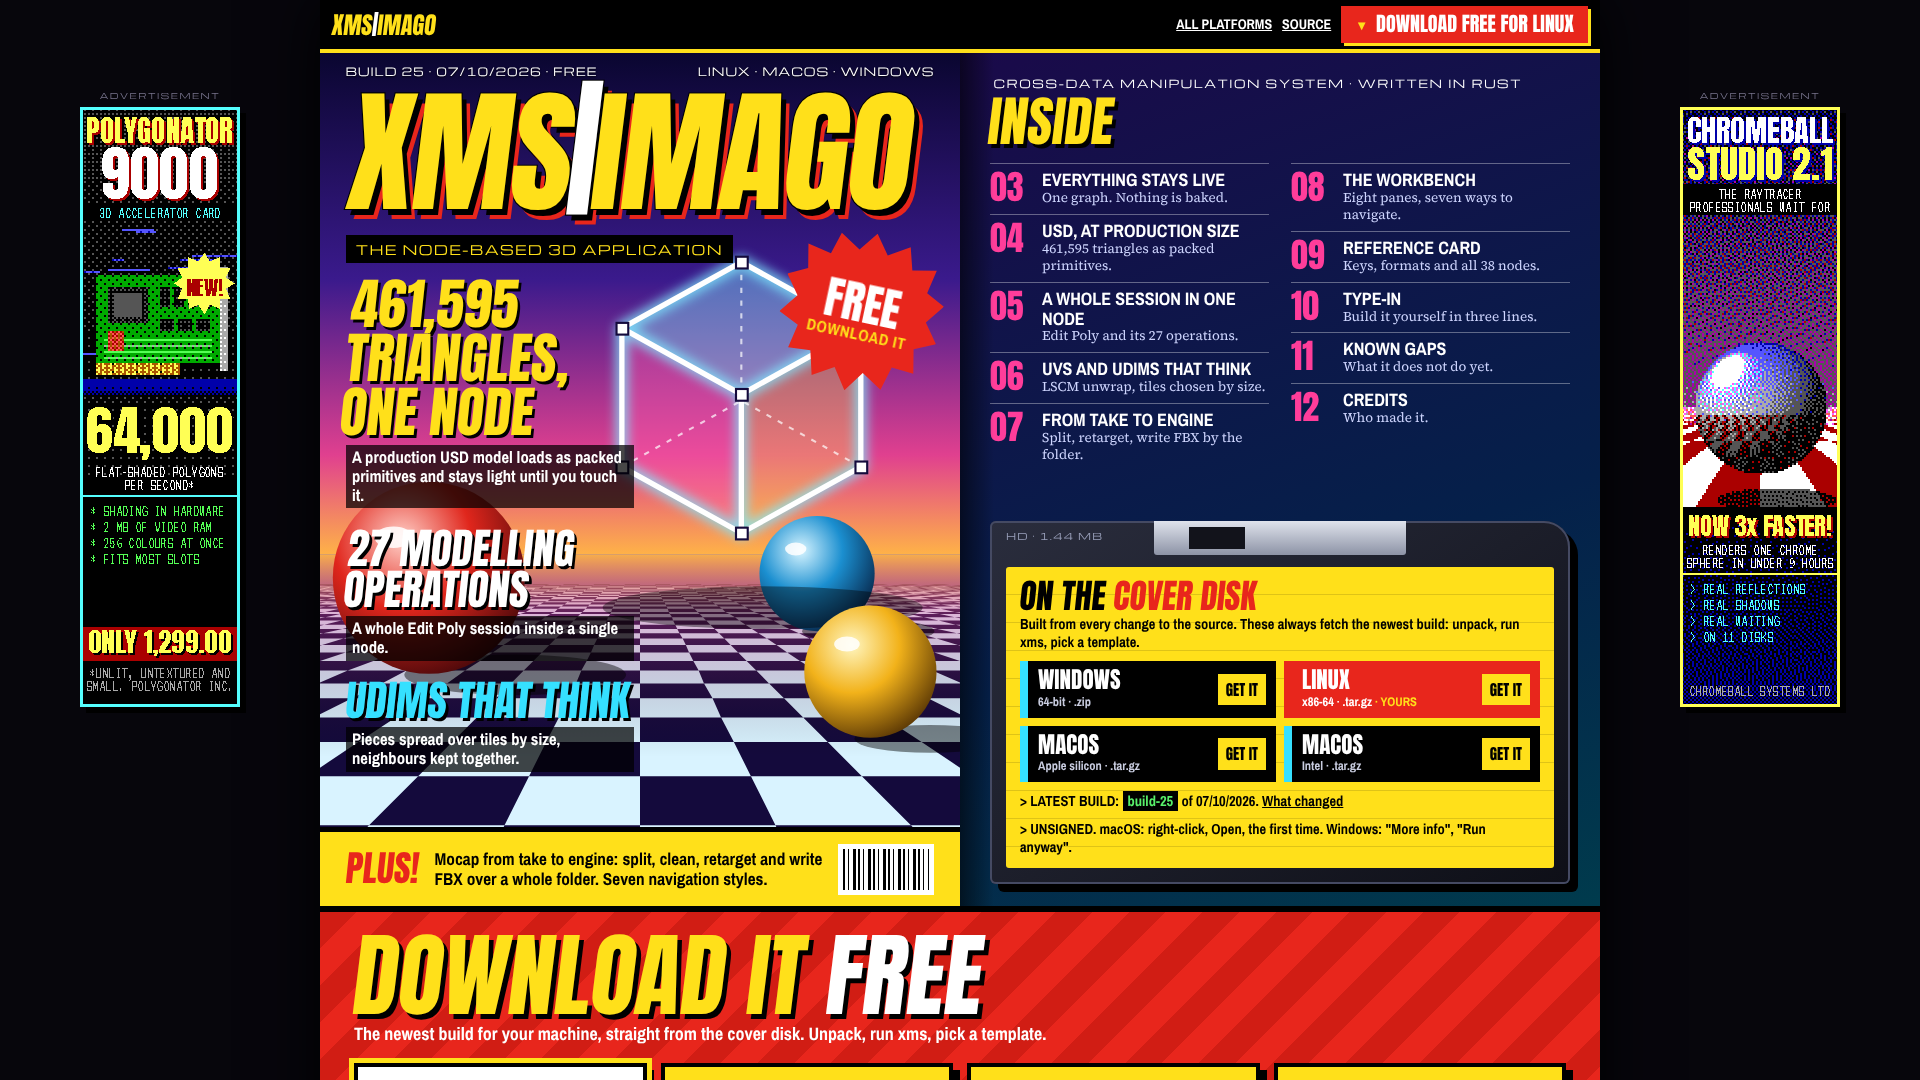
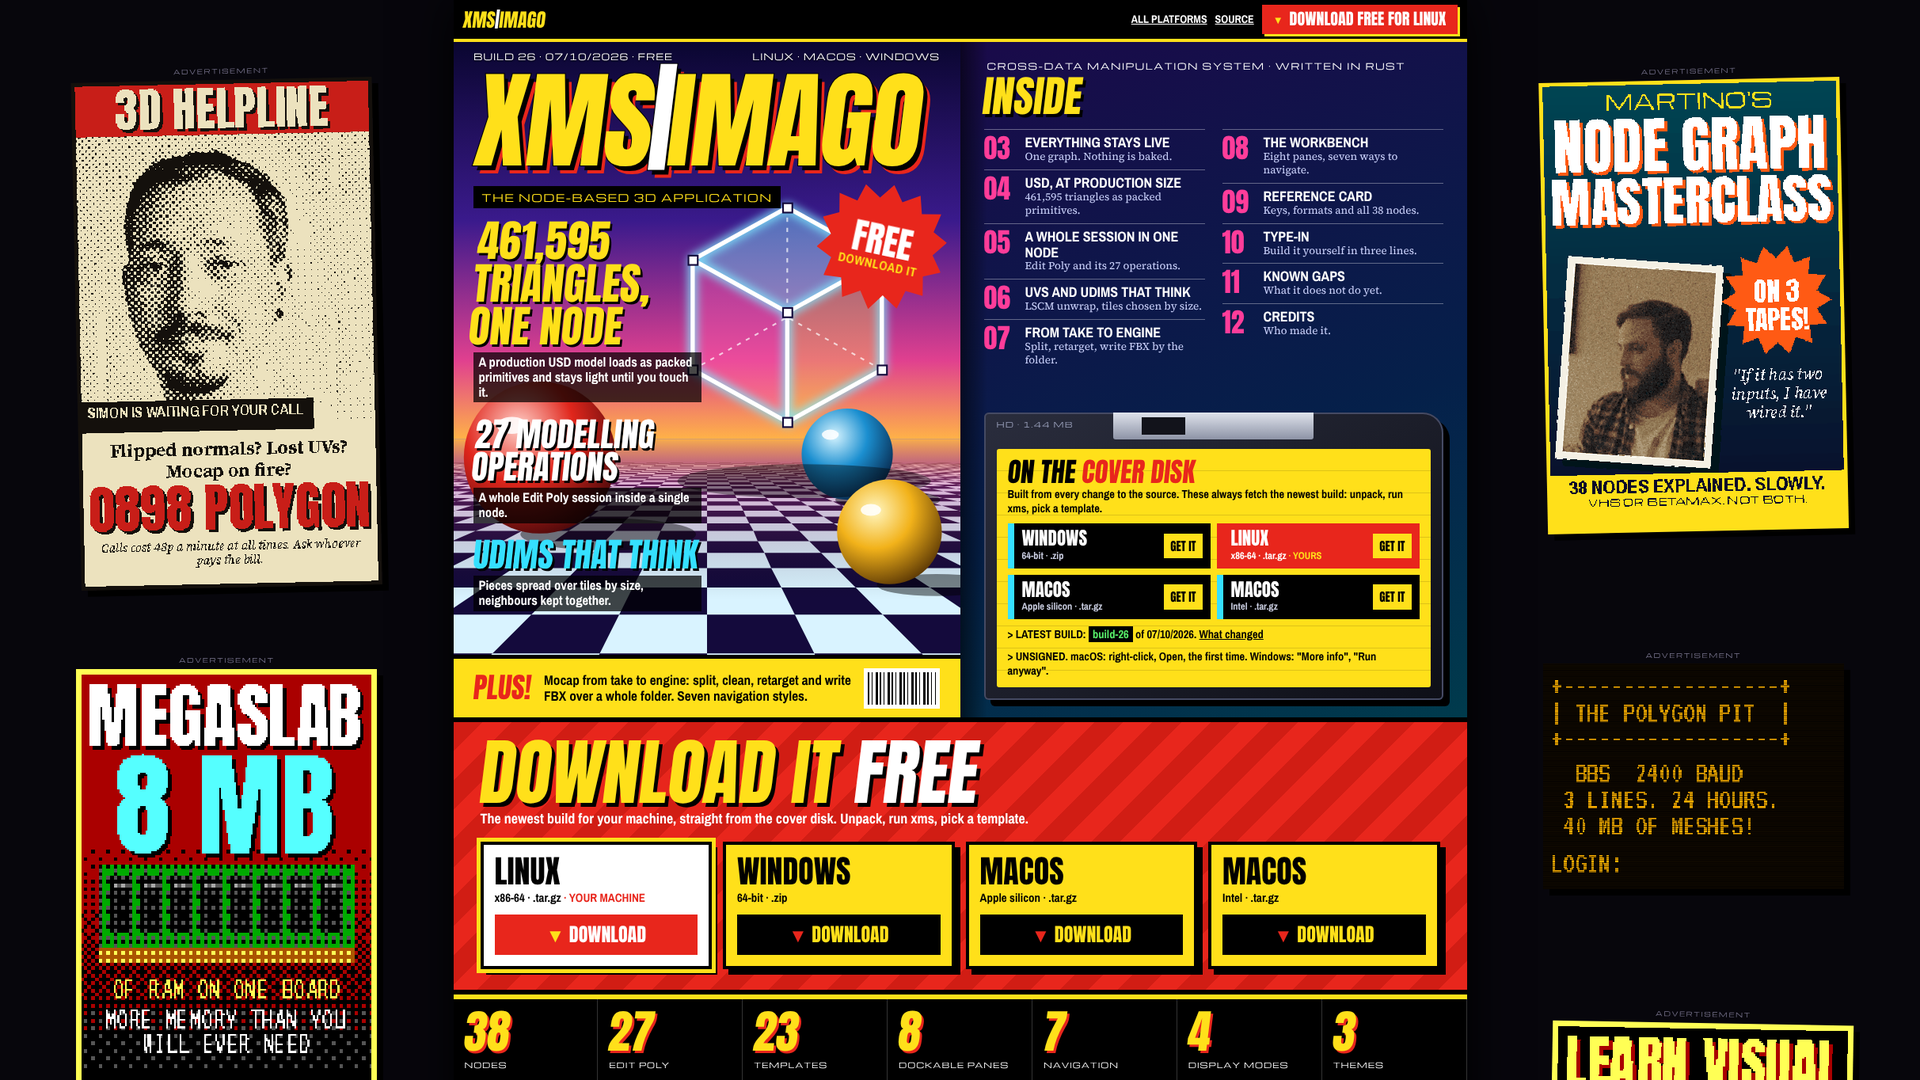
Website: bigger, more varied adverts

diff --git a/site/index.html b/site/index.html
@@ -136,17 +136,21 @@
 
   /* ── Parody adverts down the margins: pictures only, nothing to click ── */
   .desk { display: grid; grid-template-columns: minmax(0, 1fr) minmax(0, 1280px) minmax(0, 1fr); }
-  .rail { display: none; flex-direction: column; justify-content: space-between; align-items: center; gap: 60px; padding: 90px 0 60px; }
-  @media (min-width: 1680px) { .rail { display: flex; } }
-  .ad { pointer-events: none; user-select: none; width: 160px; }
-  .ad img { width: 160px; height: auto; image-rendering: pixelated; box-shadow: 6px 6px 0 #000; }
+  .desk > .mag { grid-column: 2; grid-row: 1; width: 100%; }
+  .desk > .rail:first-child { grid-column: 1; grid-row: 1; } .desk > .rail:last-child { grid-column: 3; grid-row: 1; }
+  /* The adverts grow with the margin. The rail never makes the page taller: what does not fit is cut off. */
+  .rail { display: none; position: relative; --adw: clamp(140px, calc((100vw - 1280px) / 2 - 56px), 380px); }
+  .rail .in { position: absolute; inset: 84px 0 40px; overflow: hidden; display: flex; flex-direction: column; justify-content: space-between; align-items: center; gap: 44px; }
+  @media (min-width: 1640px) { .rail { display: block; } }
+  .ad { pointer-events: none; user-select: none; width: var(--adw, 160px); flex: none; }
+  .ad img { width: 100%; height: auto; image-rendering: pixelated; box-shadow: 8px 8px 0 #000; }
   .ad figcaption { font-family: var(--tech); font-size: 8px; letter-spacing: .2em; text-transform: uppercase; color: #77738c; text-align: center; margin-bottom: 5px; }
-  .desk > .mag { grid-column: 2; width: 100%; } .desk > .rail:first-child { grid-column: 1; grid-row: 1; } .desk > .rail:last-child { grid-column: 3; grid-row: 1; }
-  /* Narrower windows have no margins: the small adverts go on a page of their own. */
+  .rail .ad:nth-child(3n+1) { transform: rotate(-1.2deg); } .rail .ad:nth-child(3n) { transform: rotate(1deg); }
+  /* Narrower windows have no margins: the adverts go on a page of their own. */
   .classified { background: #15151c; padding: 26px 16px 30px; border-top: 6px solid #000; }
   .classified h2 { font-family: var(--tech); font-weight: 400; font-size: 11px; letter-spacing: .2em; text-transform: uppercase; text-align: center; color: #9a96b0; margin: 0 0 18px; }
-  .classified .row { display: flex; flex-wrap: wrap; justify-content: center; gap: 22px; }
-  @media (min-width: 1680px) { .classified { display: none; } }
+  .classified .row { display: flex; flex-wrap: wrap; justify-content: center; align-items: flex-start; gap: 22px; --adw: min(280px, calc(50vw - 30px)); }
+  @media (min-width: 1640px) { .classified { display: none; } }
 
   /* ── The numbers strip ── */
   .stats { display: grid; grid-template-columns: repeat(auto-fit, minmax(130px, 1fr)); background: #000; border-top: 6px solid var(--yellow); border-bottom: 6px solid var(--yellow); }
@@ -245,20 +249,20 @@
 </head>
 <body>
 <div class="desk">
-  <aside class="rail" aria-label="Parody adverts">
-    <figure class="ad"><figcaption>Advertisement</figcaption><img src="ads/polygonator.gif" width="160" height="600" alt="Parody advert: Polygonator 9000 3D accelerator card" draggable="false"></figure>
-    <figure class="ad"><figcaption>Advertisement</figcaption><img src="ads/flyinglogo.gif" width="160" height="600" alt="Parody advert: The Flying Logo Academy, with a badly scanned photograph of a graduate" draggable="false"></figure>
+  <aside class="rail" aria-label="Parody adverts"><div class="in">
+    <figure class="ad"><figcaption>Advertisement</figcaption><img src="ads/helpline.gif" width="320" height="540" alt="Parody advert: 3D Helpline, with Simon waiting for your call" draggable="false"></figure>
     <figure class="ad"><figcaption>Advertisement</figcaption><img src="ads/megaslab.gif" width="160" height="240" alt="Parody advert: Megaslab 8 MB memory board" draggable="false"></figure>
-    <figure class="ad"><figcaption>Advertisement</figcaption><img src="ads/clunkmaster.gif" width="160" height="240" alt="Parody advert: Clunkmaster disk drive, with a bad photograph of it" draggable="false"></figure>
-    <figure class="ad"><figcaption>Advertisement</figcaption><img src="ads/marbles.gif" width="160" height="240" alt="Parody advert: Marbles and Chromes texture disks" draggable="false"></figure>
-    <figure class="ad"><figcaption>Advertisement</figcaption><img src="ads/renderfridge.gif" width="160" height="600" alt="Parody advert: Renderfridge render farm" draggable="false"></figure>
-    <figure class="ad"><figcaption>Advertisement</figcaption><img src="ads/megatube.gif" width="160" height="240" alt="Parody advert: Megatube 21 monitor, photographed with the flash on" draggable="false"></figure>
-    <figure class="ad"><figcaption>Advertisement</figcaption><img src="ads/diskbrick.gif" width="160" height="240" alt="Parody advert: Diskbrick 44 cartridge drive" draggable="false"></figure>
-    <figure class="ad"><figcaption>Advertisement</figcaption><img src="ads/scribblepad.gif" width="160" height="240" alt="Parody advert: Scribblepad 1212 tablet" draggable="false"></figure>
+    <figure class="ad"><figcaption>Advertisement</figcaption><img src="ads/polygonator.gif" width="160" height="600" alt="Parody advert: Polygonator 9000 3D accelerator card" draggable="false"></figure>
+    <figure class="ad"><figcaption>Advertisement</figcaption><img src="ads/polycon.gif" width="320" height="320" alt="Parody advert: Polycon '93, with exhibitor badges for Martino and Simon" draggable="false"></figure>
+    <figure class="ad"><figcaption>Advertisement</figcaption><img src="ads/clunkmaster.gif" width="160" height="240" alt="Parody advert: Clunkmaster disk drive" draggable="false"></figure>
     <figure class="ad"><figcaption>Advertisement</figcaption><img src="ads/synthia.gif" width="160" height="600" alt="Parody advert: Synthia, a digital actress of 312 polygons" draggable="false"></figure>
-    <figure class="ad"><figcaption>Advertisement</figcaption><img src="ads/chromeball.gif" width="160" height="600" alt="Parody advert: Chromeball Studio 2.1 raytracer" draggable="false"></figure>
-    <figure class="ad"><figcaption>Advertisement</figcaption><img src="ads/morphomatic.gif" width="160" height="240" alt="Parody advert: Morph-o-matic" draggable="false"></figure>
-  </aside>
+    <figure class="ad"><figcaption>Advertisement</figcaption><img src="ads/teapots.gif" width="320" height="320" alt="Parody advert: The Teapot Pack" draggable="false"></figure>
+    <figure class="ad"><figcaption>Advertisement</figcaption><img src="ads/diskbrick.gif" width="160" height="240" alt="Parody advert: Diskbrick 44 cartridge drive" draggable="false"></figure>
+    <figure class="ad"><figcaption>Advertisement</figcaption><img src="ads/masterclass.gif" width="320" height="480" alt="Parody advert: Martino's Node Graph Masterclass on three tapes" draggable="false"></figure>
+    <figure class="ad"><figcaption>Advertisement</figcaption><img src="ads/polygonpit.gif" width="320" height="240" alt="Parody advert: The Polygon Pit bulletin board" draggable="false"></figure>
+    <figure class="ad"><figcaption>Advertisement</figcaption><img src="ads/renderfridge.gif" width="160" height="600" alt="Parody advert: Renderfridge render farm" draggable="false"></figure>
+    <figure class="ad"><figcaption>Advertisement</figcaption><img src="ads/marbles.gif" width="160" height="240" alt="Parody advert: Marbles and Chromes texture disks" draggable="false"></figure>
+  </div></aside>
 <div class="mag">
 
   <nav class="bar" aria-label="Download">
@@ -620,10 +624,15 @@
   <section class="classified" aria-label="Parody adverts">
     <h2>Advertisements</h2>
     <div class="row">
+    <figure class="ad"><figcaption>Advertisement</figcaption><img src="ads/helpline.gif" width="320" height="540" alt="Parody advert: 3D Helpline, with Simon waiting for your call" draggable="false"></figure>
+    <figure class="ad"><figcaption>Advertisement</figcaption><img src="ads/masterclass.gif" width="320" height="480" alt="Parody advert: Martino's Node Graph Masterclass on three tapes" draggable="false"></figure>
+    <figure class="ad"><figcaption>Advertisement</figcaption><img src="ads/polycon.gif" width="320" height="320" alt="Parody advert: Polycon '93, with exhibitor badges for Martino and Simon" draggable="false"></figure>
+    <figure class="ad"><figcaption>Advertisement</figcaption><img src="ads/teapots.gif" width="320" height="320" alt="Parody advert: The Teapot Pack" draggable="false"></figure>
     <figure class="ad"><figcaption>Advertisement</figcaption><img src="ads/megaslab.gif" width="160" height="240" alt="Parody advert: Megaslab 8 MB memory board" draggable="false"></figure>
-    <figure class="ad"><figcaption>Advertisement</figcaption><img src="ads/clunkmaster.gif" width="160" height="240" alt="Parody advert: Clunkmaster disk drive, with a bad photograph of it" draggable="false"></figure>
-    <figure class="ad"><figcaption>Advertisement</figcaption><img src="ads/megatube.gif" width="160" height="240" alt="Parody advert: Megatube 21 monitor, photographed with the flash on" draggable="false"></figure>
     <figure class="ad"><figcaption>Advertisement</figcaption><img src="ads/morphomatic.gif" width="160" height="240" alt="Parody advert: Morph-o-matic" draggable="false"></figure>
+    <figure class="ad"><figcaption>Advertisement</figcaption><img src="ads/clunkmaster.gif" width="160" height="240" alt="Parody advert: Clunkmaster disk drive" draggable="false"></figure>
+    <figure class="ad"><figcaption>Advertisement</figcaption><img src="ads/megatube.gif" width="160" height="240" alt="Parody advert: Megatube 21 monitor" draggable="false"></figure>
+    <figure class="ad"><figcaption>Advertisement</figcaption><img src="ads/polygonpit.gif" width="320" height="240" alt="Parody advert: The Polygon Pit bulletin board" draggable="false"></figure>
     <figure class="ad"><figcaption>Advertisement</figcaption><img src="ads/scribblepad.gif" width="160" height="240" alt="Parody advert: Scribblepad 1212 tablet" draggable="false"></figure>
     <figure class="ad"><figcaption>Advertisement</figcaption><img src="ads/marbles.gif" width="160" height="240" alt="Parody advert: Marbles and Chromes texture disks" draggable="false"></figure>
     <figure class="ad"><figcaption>Advertisement</figcaption><img src="ads/diskbrick.gif" width="160" height="240" alt="Parody advert: Diskbrick 44 cartridge drive" draggable="false"></figure>
@@ -662,20 +671,20 @@
     <span><a href="https://github.com/srlegrand/xms-imago">Source</a> · <a href="https://github.com/srlegrand/xms-imago/tree/main/docs">Manual</a> · <a href="https://github.com/srlegrand/xms-imago/releases">All builds</a> · <a href="https://github.com/srlegrand/xms-imago/issues">Report a problem</a></span>
   </footer>
 </div>
-  <aside class="rail" aria-label="Parody adverts">
-    <figure class="ad"><figcaption>Advertisement</figcaption><img src="ads/chromeball.gif" width="160" height="600" alt="Parody advert: Chromeball Studio 2.1 raytracer" draggable="false"></figure>
-    <figure class="ad"><figcaption>Advertisement</figcaption><img src="ads/megatube.gif" width="160" height="240" alt="Parody advert: Megatube 21 monitor, photographed with the flash on" draggable="false"></figure>
+  <aside class="rail" aria-label="Parody adverts"><div class="in">
+    <figure class="ad"><figcaption>Advertisement</figcaption><img src="ads/masterclass.gif" width="320" height="480" alt="Parody advert: Martino's Node Graph Masterclass on three tapes" draggable="false"></figure>
+    <figure class="ad"><figcaption>Advertisement</figcaption><img src="ads/polygonpit.gif" width="320" height="240" alt="Parody advert: The Polygon Pit bulletin board" draggable="false"></figure>
+    <figure class="ad"><figcaption>Advertisement</figcaption><img src="ads/flyinglogo.gif" width="160" height="600" alt="Parody advert: The Flying Logo Academy" draggable="false"></figure>
+    <figure class="ad"><figcaption>Advertisement</figcaption><img src="ads/teapots.gif" width="320" height="320" alt="Parody advert: The Teapot Pack" draggable="false"></figure>
     <figure class="ad"><figcaption>Advertisement</figcaption><img src="ads/morphomatic.gif" width="160" height="240" alt="Parody advert: Morph-o-matic" draggable="false"></figure>
+    <figure class="ad"><figcaption>Advertisement</figcaption><img src="ads/chromeball.gif" width="320" height="600" alt="Parody advert: Chromeball Studio 2.1 raytracer" draggable="false"></figure>
+    <figure class="ad"><figcaption>Advertisement</figcaption><img src="ads/helpline.gif" width="320" height="540" alt="Parody advert: 3D Helpline, with Simon waiting for your call" draggable="false"></figure>
+    <figure class="ad"><figcaption>Advertisement</figcaption><img src="ads/megatube.gif" width="160" height="240" alt="Parody advert: Megatube 21 monitor" draggable="false"></figure>
     <figure class="ad"><figcaption>Advertisement</figcaption><img src="ads/scribblepad.gif" width="160" height="240" alt="Parody advert: Scribblepad 1212 tablet" draggable="false"></figure>
-    <figure class="ad"><figcaption>Advertisement</figcaption><img src="ads/synthia.gif" width="160" height="600" alt="Parody advert: Synthia, a digital actress of 312 polygons" draggable="false"></figure>
-    <figure class="ad"><figcaption>Advertisement</figcaption><img src="ads/polygonator.gif" width="160" height="600" alt="Parody advert: Polygonator 9000 3D accelerator card" draggable="false"></figure>
-    <figure class="ad"><figcaption>Advertisement</figcaption><img src="ads/megaslab.gif" width="160" height="240" alt="Parody advert: Megaslab 8 MB memory board" draggable="false"></figure>
-    <figure class="ad"><figcaption>Advertisement</figcaption><img src="ads/flyinglogo.gif" width="160" height="600" alt="Parody advert: The Flying Logo Academy, with a badly scanned photograph of a graduate" draggable="false"></figure>
-    <figure class="ad"><figcaption>Advertisement</figcaption><img src="ads/diskbrick.gif" width="160" height="240" alt="Parody advert: Diskbrick 44 cartridge drive" draggable="false"></figure>
     <figure class="ad"><figcaption>Advertisement</figcaption><img src="ads/renderfridge.gif" width="160" height="600" alt="Parody advert: Renderfridge render farm" draggable="false"></figure>
-    <figure class="ad"><figcaption>Advertisement</figcaption><img src="ads/clunkmaster.gif" width="160" height="240" alt="Parody advert: Clunkmaster disk drive, with a bad photograph of it" draggable="false"></figure>
+    <figure class="ad"><figcaption>Advertisement</figcaption><img src="ads/polycon.gif" width="320" height="320" alt="Parody advert: Polycon '93, with exhibitor badges for Martino and Simon" draggable="false"></figure>
     <figure class="ad"><figcaption>Advertisement</figcaption><img src="ads/marbles.gif" width="160" height="240" alt="Parody advert: Marbles and Chromes texture disks" draggable="false"></figure>
-  </aside>
+  </div></aside>
 </div>
 
 <script>

diff --git a/docs/releases.md b/docs/releases.md
@@ -33,7 +33,7 @@ The downloads are in four places: a bar that stays at the top of the window, who
 
 The page is laid out as a 3D magazine of the 1990s: a cover, a contents page with the downloads on a cover disk, then a double page in its own colours for each area of the program, a reference card with the keys, the file formats and all 38 nodes, the build instructions as a type-in listing, and the known gaps. Its fonts are in `site/fonts/` and are served with it.
 
-The adverts down the margins are parodies of the period, for products that do not exist: twelve 16-colour dithered GIFs in `site/ads/`, five of them animated. Three carry a "photograph": a graduate, a disk drive and a monitor, each rendered and then given the grain, the colour cast, the flash and the crooked scan of a bad print. They are pictures only and cannot be clicked. The margins exist in windows 1680 pixels wide or more; in narrower ones the seven small adverts sit on a page of their own before the credits.
+The adverts down the margins are parodies of the period, for products that do not exist: seventeen GIFs in `site/ads/`, six of them animated. They are not all of one kind: 16-colour dithered ones, a four-colour one, an amber text screen, a one-ink newspaper halftone, and 48 to 128 colour ones, one of them a proper raytrace. Three carry a rendered "photograph" given the grain, the cast and the crooked scan of a bad print. Three carry real photographs of Martino and Simon. They are pictures only and cannot be clicked. The margins exist in windows 1640 pixels wide or more, and the adverts grow with them, up to 380 pixels wide; in narrower windows twelve of them sit on a page of their own before the credits.
 
 ![The website](xms_site.png)
 
